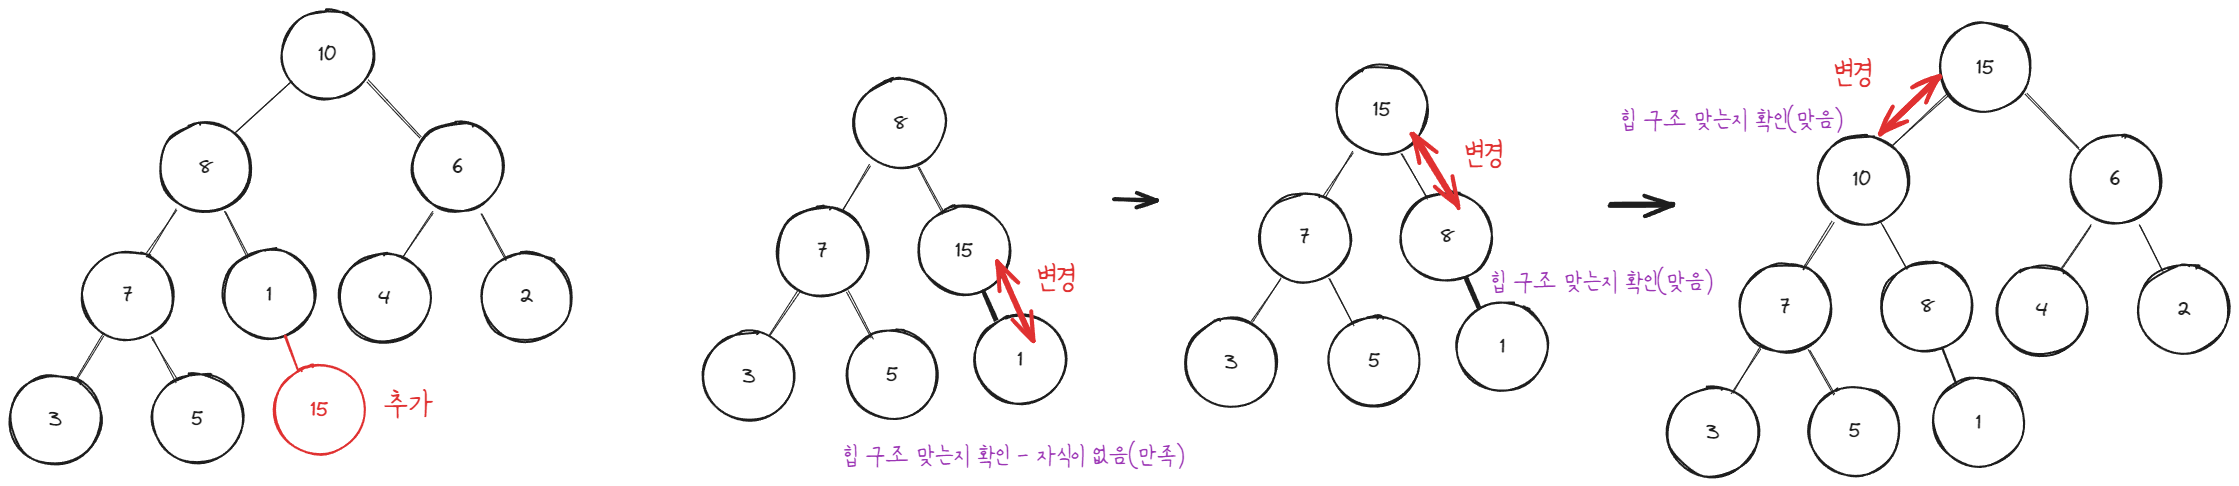
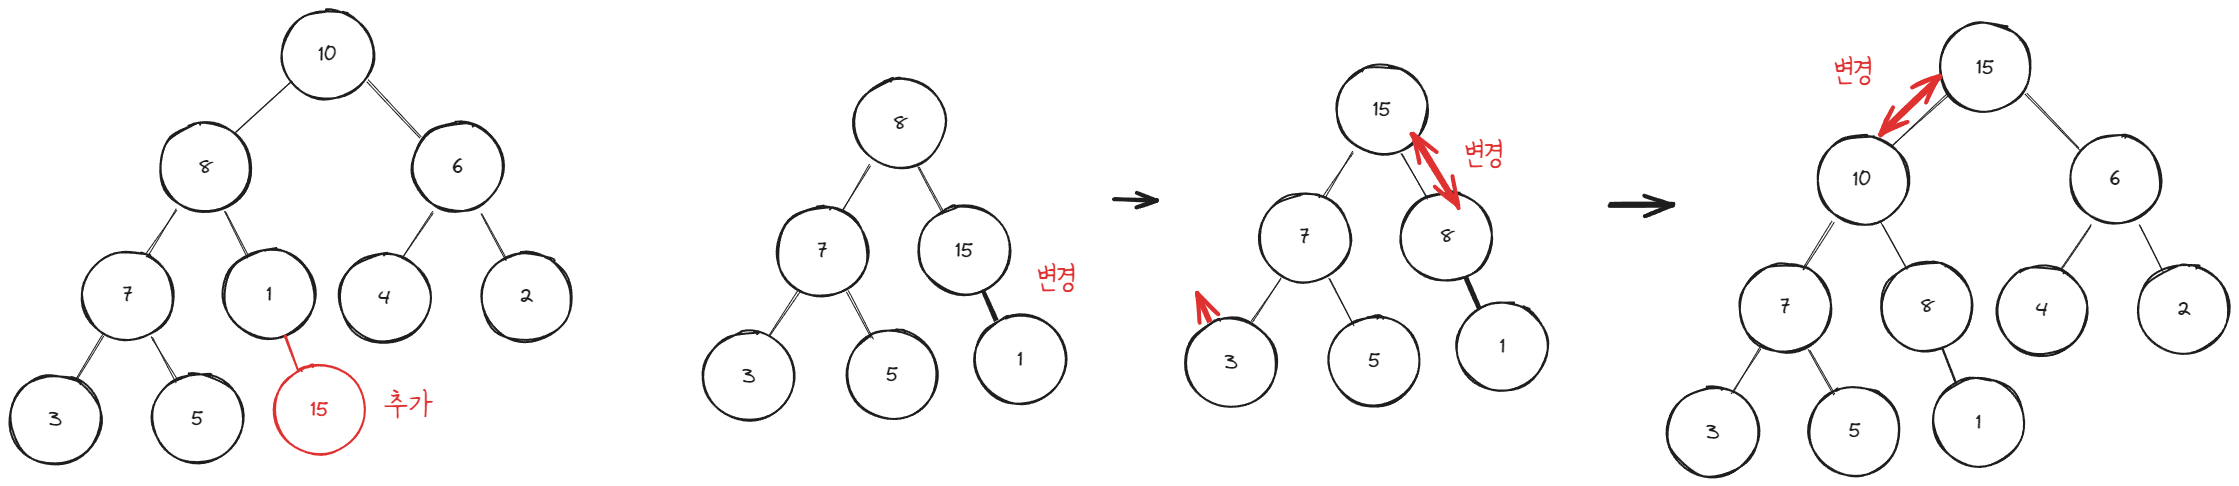
heap 원소 추가

diff --git a/heap/1_heap.c b/heap/1_heap.c
@@ -1,0 +1,89 @@
+#include <stdio.h>
+#include <stdlib.h>
+
+typedef struct Heap {
+    int *arr; // 힙 메모리의 주소를 저장
+    int size; // 저장된 원소의 개수
+    int capacity;  // 최대 저장 가능한 원소의 개수
+} Heap;
+
+void createHeap(Heap *heap, int capacity);
+void addHeap(Heap *heap, int data);
+void shiftUp(int *arr, int cidx);
+void printHeap(Heap *heap);
+
+
+/**
+ * 최대 힙
+*/
+int main()
+{
+    Heap heap;
+
+    createHeap(&heap, 10);
+    
+    addHeap(&heap, 57);
+    addHeap(&heap, 32);
+    addHeap(&heap, 48);
+    addHeap(&heap, 10);
+    addHeap(&heap, 15);
+    addHeap(&heap, 25);
+    addHeap(&heap, 20);
+    addHeap(&heap, 9);
+
+    printHeap(&heap);
+
+    addHeap(&heap, 60);
+
+    printHeap(&heap);
+    
+    return 0;
+}
+
+void createHeap(Heap *heap, int capacity)
+{
+    heap->arr = (int *)malloc(sizeof(int) * capacity);
+    heap->size = 0;
+    heap->capacity = capacity;
+}
+
+void addHeap(Heap *heap, int value)
+{
+    if (heap->size == heap->capacity) // 더이상 원소를 저장할 수 없음
+    {
+        printf("Heap is full\n");
+        return;
+    }
+
+    heap->arr[heap->size] = value;
+    
+    // 힙구조 만들기 (최대 힙) - shift up - 부모노드와 비교하여 자식노드가 더 크면 교환
+    shiftUp(heap->arr, heap->size);
+
+    heap->size++;
+}
+
+void shiftUp(int *arr, int childIndex)
+{
+    // 부모노드 = (해당 노드 인덱스 - 1) / 2 
+    int parentIndex = (childIndex - 1) / 2;
+
+    // 루트노드까지 올라오면 0 - 1 / 2 = 0.5
+    if (parentIndex >= 0 && arr[parentIndex] < arr[childIndex])
+    {
+        int temp = arr[parentIndex];
+        arr[parentIndex] = arr[childIndex];
+        arr[childIndex] = temp;
+
+        shiftUp(arr, parentIndex);
+    }
+}
+
+void printHeap(Heap *heap)
+{
+    for (int i = 0; i < heap->size; i++)
+    {
+        printf("%d ", heap->arr[i]);
+    }
+    printf("\n");
+}
